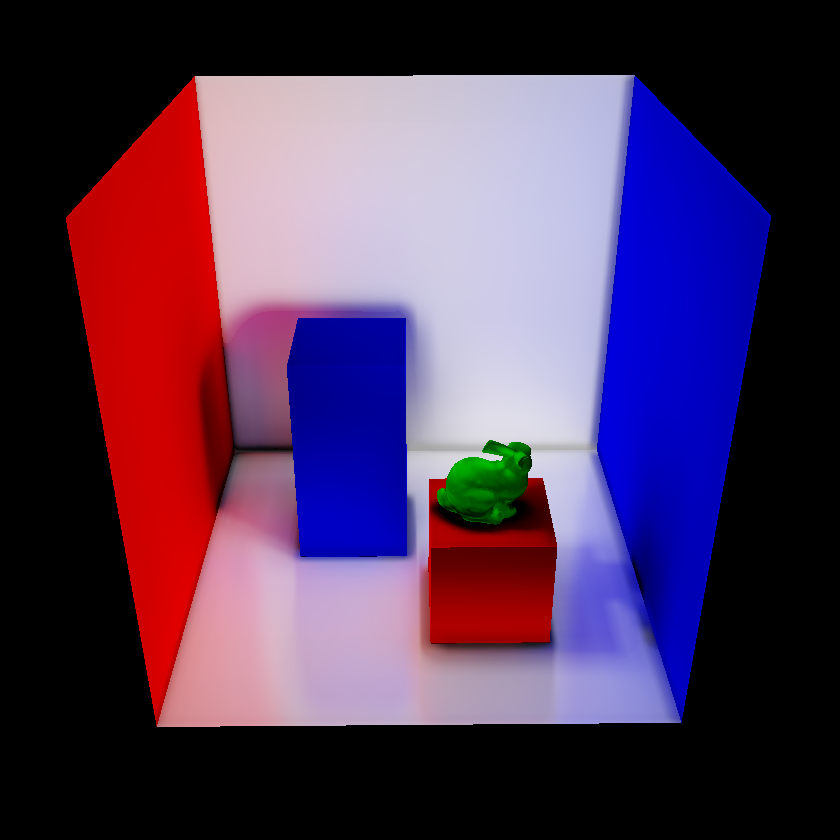
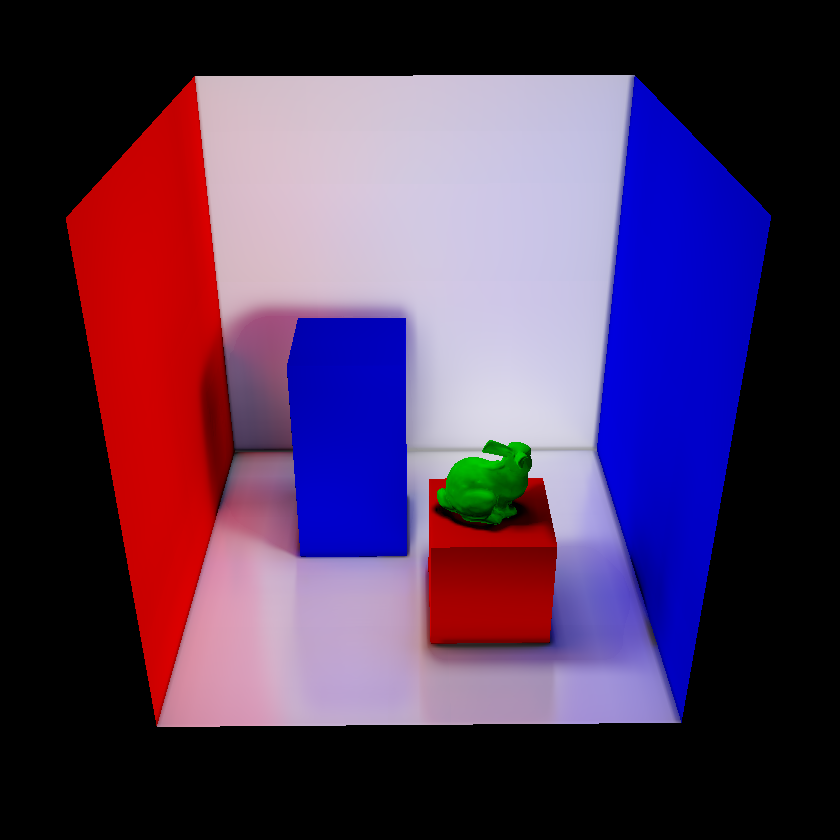
Change cone angle and aperture

diff --git a/crates/core/src/cone_tracing/debug_cone.rs b/crates/core/src/cone_tracing/debug_cone.rs
@@ -1,18 +1,14 @@
+use engine::prelude::*;
 use std::collections::HashSet;
 use std::fmt;
-use engine::prelude::*;
 
 use c_str_macro::c_str;
-use cgmath::{point3, vec3, Matrix4, Vector3, Vector2};
+use cgmath::{point3, vec3, Matrix4, Vector2, Vector3};
 use colored::{customcolors, Colorize};
 
 use gl::types::GLuint;
 
-use crate::{
-    config::Config,
-    menu::DebugNode,
-    octree::OctreeTextures,
-};
+use crate::{config::Config, menu::DebugNode, octree::OctreeTextures};
 
 use super::ConeParameters;
 
@@ -184,12 +180,11 @@ impl DebugCone {
         // Unbind any texture leftover
         gl::BindTexture(gl::TEXTURE_2D, 0);
 
-        self.shader
-            .set_vec2(
-                c_str!("gBufferQueryCoordinates"),
-                geometry_buffer_coordinates.x,
-                geometry_buffer_coordinates.y
-            );
+        self.shader.set_vec2(
+            c_str!("gBufferQueryCoordinates"),
+            geometry_buffer_coordinates.x,
+            geometry_buffer_coordinates.y,
+        );
 
         let config = Config::instance();
 
@@ -205,10 +200,8 @@ impl DebugCone {
             self.transform.position.y,
             self.transform.position.z,
         );
-        self.shader.set_bool(
-            c_str!("pointToLight"),
-            self.point_to_light
-        );
+        self.shader
+            .set_bool(c_str!("pointToLight"), self.point_to_light);
         self.shader.set_vec3(
             c_str!("lightPosition"),
             light.transform().position.x,

diff --git a/crates/engine/src/material.rs b/crates/engine/src/material.rs
@@ -1,6 +1,6 @@
-use serde::Deserialize;
-use cgmath::Vector3;
 use c_str_macro::c_str;
+use cgmath::Vector3;
+use serde::Deserialize;
 
 use super::prelude::Shader;
 
@@ -19,15 +19,18 @@ impl Material {
 #[derive(Debug, Deserialize, Clone)]
 pub struct MaterialProperties {
     pub color: Vector3<f32>,
-    pub diffuse: f32,
     pub specular: f32,
 }
 
 impl MaterialProperties {
     pub unsafe fn set_uniforms(&self, shader: &Shader) {
         shader.set_bool(c_str!("hasMaterial"), true);
-        shader.set_vec3(c_str!("material.color"), self.color.x, self.color.y, self.color.z);
-        shader.set_float(c_str!("material.diffuse"), self.diffuse);
+        shader.set_vec3(
+            c_str!("material.color"),
+            self.color.x,
+            self.color.y,
+            self.color.z,
+        );
         shader.set_float(c_str!("material.specular"), self.specular);
     }
 }

diff --git a/crates/core/src/cone_tracing/voxel_cone_trace.rs b/crates/core/src/cone_tracing/voxel_cone_trace.rs
@@ -234,7 +234,7 @@ impl ConeTracer {
             .set_int(c_str!("inputTexture"), 0);
 
         self.post_processing_shader
-            .set_float(c_str!("exposure"), 1.0);
+            .set_float(c_str!("exposure"), 1.5);
 
         // Framebuffer
         gl::BindFramebuffer(gl::FRAMEBUFFER, self.processed_framebuffer.fbo());
